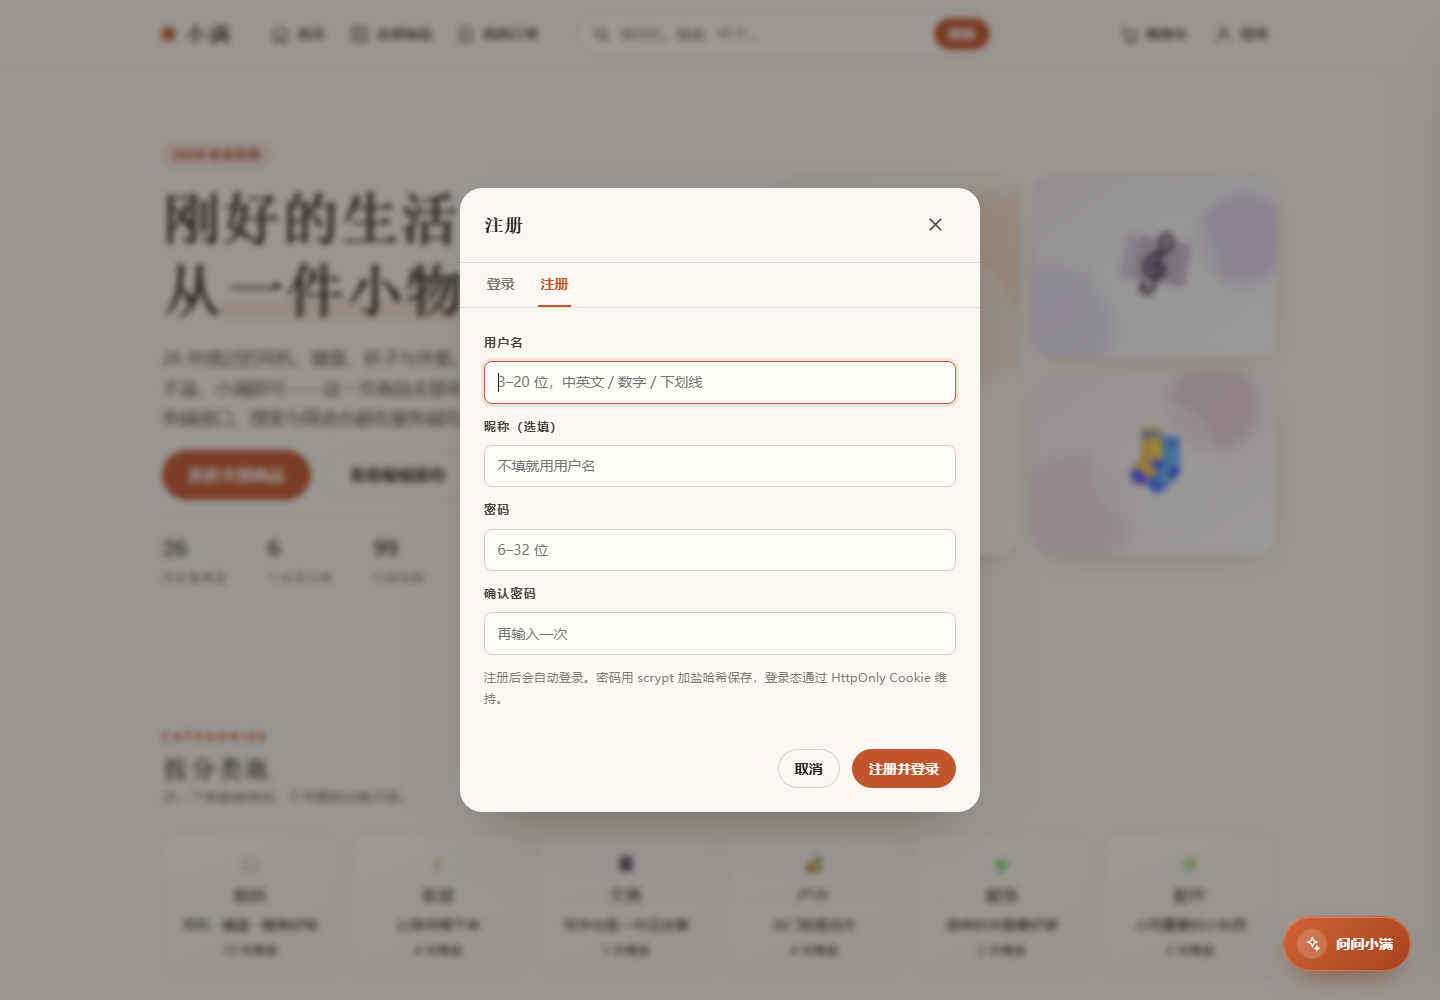
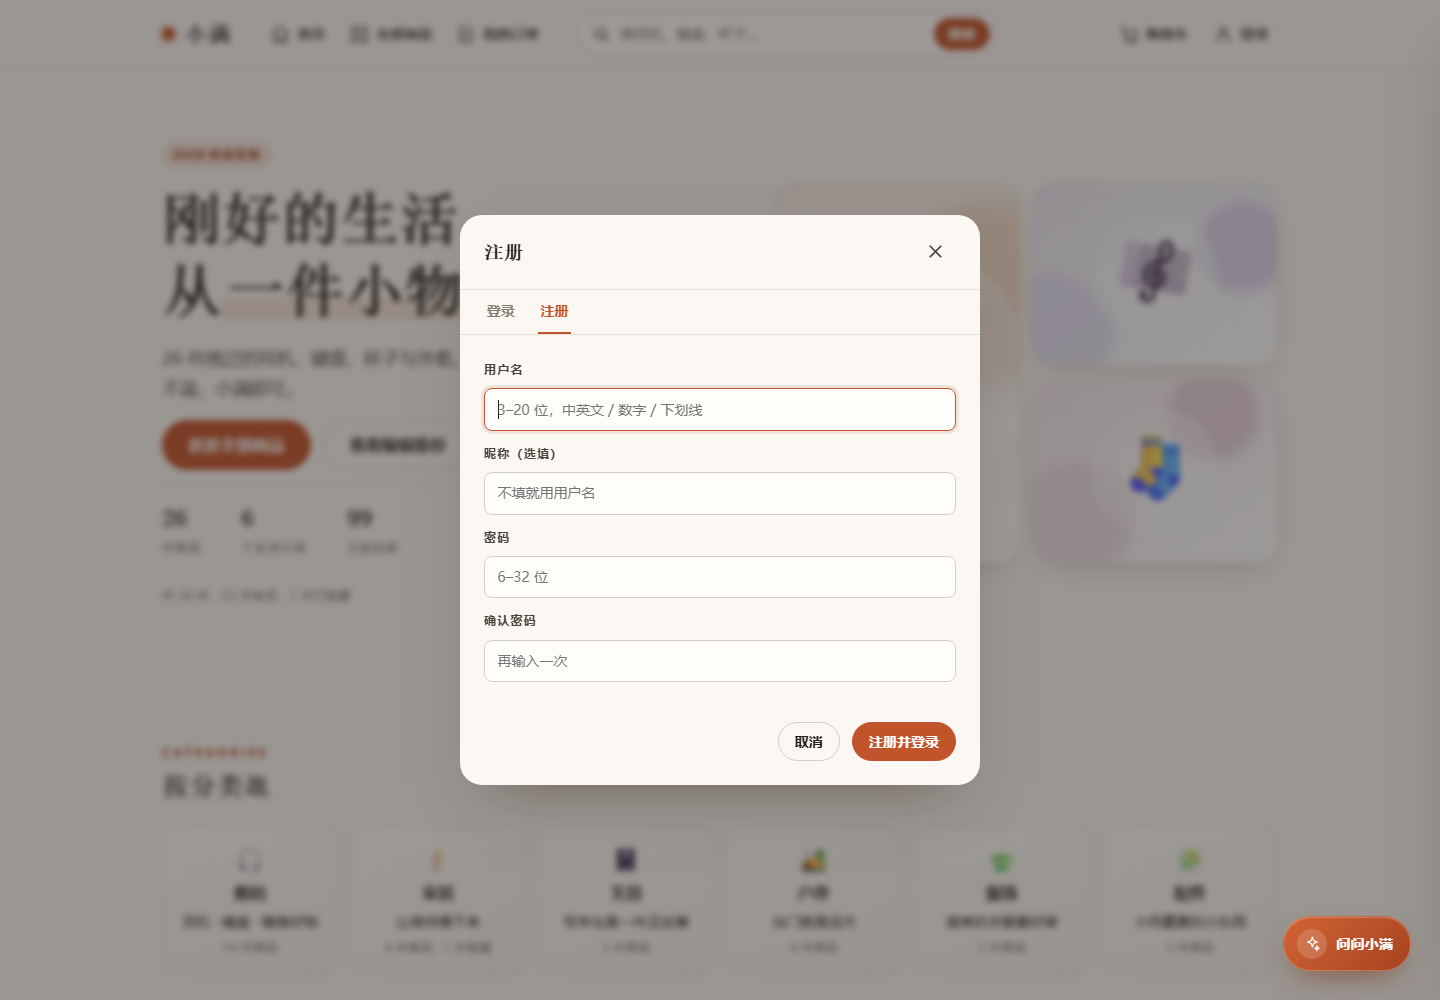
精简页面说明文字，更新界面截图

diff --git a/public/index-首页.html b/public/index-首页.html
@@ -65,7 +65,7 @@
       <div class="hero-copy">
         <span class="badge is-accent">2026 秋季选物</span>
         <h1 class="display hero-title">刚好的生活，<br>从<em>一件小物</em>开始。</h1>
-        <p class="lede">26 件挑过的耳机、键盘、杯子与外套。不满不溢，小满即可——首页的热卖与推荐都来自服务端接口，搜索和筛选在“全部商品”页完成。</p>
+        <p class="lede">26 件挑过的耳机、键盘、杯子与外套。不满不溢，小满即可。</p>
         <div class="hero-actions">
           <a class="btn btn-primary btn-lg" href="./products-全部商品页.html">逛逛全部商品</a>
           <a class="btn btn-ghost btn-lg" href="#recommend">看看编辑推荐</a>
@@ -91,7 +91,6 @@
           <div>
             <p class="eyebrow">Categories</p>
             <h2 class="h2">按分类逛</h2>
-            <p>点一下进入分类，筛选在全部商品页完成。</p>
           </div>
         </div>
         <div class="category-grid" id="categoryGrid"></div>
@@ -105,7 +104,6 @@
           <div>
             <p class="eyebrow">Editor's picks</p>
             <h2 class="h2">编辑推荐</h2>
-            <p>按销量排的前四件，横向滚动可以看更多。</p>
           </div>
           <a class="btn btn-ghost" href="./products-全部商品页.html">全部商品 →</a>
         </div>
@@ -120,7 +118,6 @@
           <div>
             <p class="eyebrow">Recently viewed</p>
             <h2 class="h2">最近看过</h2>
-            <p>只记在这台浏览器里，最多 6 件，方便回头再挑。</p>
           </div>
           <button class="btn btn-ghost" type="button" id="recentClearBtn">清空记录</button>
         </div>
@@ -135,7 +132,6 @@
           <div>
             <p class="eyebrow">This week</p>
             <h2 class="h2">本周热卖</h2>
-            <p>按销量排的前八件。想看全部 26 件，去完整目录里按分类、价格慢慢挑。</p>
           </div>
           <a class="btn btn-ghost" href="./products-全部商品页.html">查看全部 26 件 →</a>
         </div>
@@ -175,7 +171,6 @@
     <div class="container footer-inner">
       <div>
         <a class="brand" href="./index-首页.html"><span class="brand-dot" aria-hidden="true"></span>小满</a>
-        <p class="footer-note">小满商城是云屋三面前端（+AI Agent 开发）项目考核作品。数据存在服务端的 JSON 文件里，支付为模拟流程，不会产生真实扣款。</p>
       </div>
       <nav class="footer-links" aria-label="页脚导航">
         <a href="./index-首页.html#categories">商品分类</a>

diff --git a/public/js/agent-购物助手面板.js b/public/js/agent-购物助手面板.js
@@ -87,7 +87,6 @@ function injectMarkup() {
           <svg viewBox="0 0 24 24" fill="none" stroke="currentColor" stroke-width="1.9" stroke-linecap="round" stroke-linejoin="round" aria-hidden="true"><path d="M4 12 20 4l-4 16-4.5-6.5L4 12Z"/></svg>
         </button>
       </form>
-      <p class="agent-foot">价格与库存来自服务端；下单需要你确认，不会自动扣款。</p>
     </section>
   `;
   document.body.appendChild(root);
@@ -571,7 +570,7 @@ function updateMode(mode) {
     els.mode.textContent = '大模型模式 · ' + (state.model || 'deepseek');
     els.mode.title = '模型回复，工具调用与本地模式共用一套';
   } else {
-    els.mode.textContent = '本地规则模式 · 会话自动保存';
+    els.mode.textContent = '本地规则模式';
     els.mode.title = '没有配置 API Key 时使用内置规则引擎，全部功能离线可用';
   }
 }
@@ -606,10 +605,6 @@ function showWelcome() {
   const msg = createBotMessage(
     '你好，我是小满。可以帮你找商品、比价格、加购物车；选好之后，我会把订单整理成一张确认卡，你点确认才会真正下单。'
   );
-  const hint = document.createElement('p');
-  hint.className = 'agent-action-note';
-  hint.textContent = '试试下面的问题，或者直接说预算和用途。';
-  msg.row.appendChild(hint);
   scrollToBottom(true);
 }
 

diff --git a/public/products-全部商品页.html b/public/products-全部商品页.html
@@ -63,10 +63,6 @@
     <section class="container catalog-hero">
       <p class="eyebrow">All products</p>
       <h1 class="h1 catalog-title">全部商品</h1>
-      <p class="catalog-lede">
-        26 件生活好物都在这里。输入关键词、点分类、选价格区间或换排序，结果会即时更新；
-        这些条件也会写进地址栏，把链接发给别人能看到同样的结果。
-      </p>
     </section>
 
     <!-- ===== 搜索 / 筛选 / 排序 / 分页 ===== -->
@@ -111,7 +107,6 @@
     <div class="container footer-inner">
       <div>
         <a class="brand" href="./index-首页.html"><span class="brand-dot" aria-hidden="true"></span>小满</a>
-        <p class="footer-note">小满商城是云屋三面前端（+AI Agent 开发）项目考核作品。数据存在服务端的 JSON 文件里，支付为模拟流程，不会产生真实扣款。</p>
       </div>
       <nav class="footer-links" aria-label="页脚导航">
         <a href="./index-首页.html#categories">商品分类</a>

diff --git a/public/orders-我的订单页.html b/public/orders-我的订单页.html
@@ -58,7 +58,6 @@
       <div>
         <p class="eyebrow">Orders</p>
         <h1 class="h1">我的订单</h1>
-        <p class="text-sm text-muted">下单成功后会自动跳到这里。登录后订单会跟着账号走，换设备登录也能看到；未登录时订单号只记在这台浏览器里，记得复制单号。</p>
       </div>
       <a class="btn btn-ghost" href="./products-全部商品页.html">继续逛逛</a>
     </div>
@@ -86,7 +85,6 @@
     <div class="container footer-inner">
       <div>
         <a class="brand" href="./index-首页.html"><span class="brand-dot" aria-hidden="true"></span>小满</a>
-        <p class="footer-note">小满商城是云屋三面前端（+AI Agent 开发）项目考核作品。数据存在服务端的 JSON 文件里，支付为模拟流程，不会产生真实扣款。</p>
       </div>
       <nav class="footer-links" aria-label="页脚导航">
         <a href="./index-首页.html#categories">商品分类</a>

diff --git a/public/js/authui-登录注册弹窗.js b/public/js/authui-登录注册弹窗.js
@@ -50,7 +50,6 @@ const MODAL_HTML = [
   '          <input class="input" id="authConfirm" type="password" autocomplete="new-password" maxlength="32" placeholder="再输入一次">',
   '        </label>',
   '        <p class="auth-error" id="authError" role="alert" hidden></p>',
-  '        <p class="text-xs text-muted">注册后会自动登录。密码用 scrypt 加盐哈希保存，登录态通过 HttpOnly Cookie 维持。</p>',
   '      </div>',
   '      <div class="modal-foot">',
   '        <button class="btn btn-ghost" type="button" data-close-auth>取消</button>',

diff --git a/public/product-商品详情页.html b/public/product-商品详情页.html
@@ -142,7 +142,6 @@
     <div class="container footer-inner">
       <div>
         <a class="brand" href="./index-首页.html"><span class="brand-dot" aria-hidden="true"></span>小满</a>
-        <p class="footer-note">小满商城是云屋三面前端（+AI Agent 开发）项目考核作品。数据存在服务端的 JSON 文件里，支付为模拟流程，不会产生真实扣款。</p>
       </div>
       <nav class="footer-links" aria-label="页脚导航">
         <a href="./index-首页.html#categories">商品分类</a>

diff --git a/public/404-页面不存在.html b/public/404-页面不存在.html
@@ -64,7 +64,6 @@
     <div class="container footer-inner">
       <div>
         <a class="brand" href="./index-首页.html"><span class="brand-dot" aria-hidden="true"></span>小满</a>
-        <p class="footer-note">小满商城是云屋三面前端（+AI Agent 开发）项目考核作品。数据存在服务端的 JSON 文件里，支付为模拟流程，不会产生真实扣款。</p>
       </div>
       <nav class="footer-links" aria-label="页脚导航">
         <a href="./index-首页.html#categories">商品分类</a>

diff --git a/public/css/layout-导航与页面布局.css b/public/css/layout-导航与页面布局.css
@@ -181,11 +181,6 @@
   margin-bottom: 0.35rem;
 }
 
-.section-head p {
-  color: var(--muted);
-  font-size: var(--fs-sm);
-}
-
 /* 首页首屏：左文右图，窄屏自动变成上下 */
 .hero {
   display: grid;
@@ -336,13 +331,6 @@
   justify-content: space-between;
   align-items: flex-start;
   padding-block: var(--space-6);
-}
-
-.footer-note {
-  color: var(--muted);
-  font-size: var(--fs-xs);
-  max-width: 42ch;
-  line-height: 1.9;
 }
 
 .footer-links {

diff --git a/public/css/agent-购物助手样式.css b/public/css/agent-购物助手样式.css
@@ -655,16 +655,6 @@
   height: 1.05rem;
 }
 
-.agent-foot {
-  margin: 0;
-  padding: 0 0.9rem 0.6rem;
-  color: var(--muted);
-  font-size: 0.7rem;
-  line-height: 1.4;
-  text-align: center;
-  background: var(--surface);
-}
-
 /* ---------- 10. 动画 ---------- */
 @keyframes agent-rise {
   from {

diff --git a/public/css/catalog-全部商品页样式.css b/public/css/catalog-全部商品页样式.css
@@ -18,14 +18,6 @@
   letter-spacing: -0.01em;
 }
 
-.catalog-lede {
-  max-width: 54ch;
-  margin-top: var(--space-3);
-  color: var(--ink-2);
-  font-size: var(--fs-sm);
-  line-height: 1.8;
-}
-
 .catalog-section {
   padding-top: 1rem;
 }
